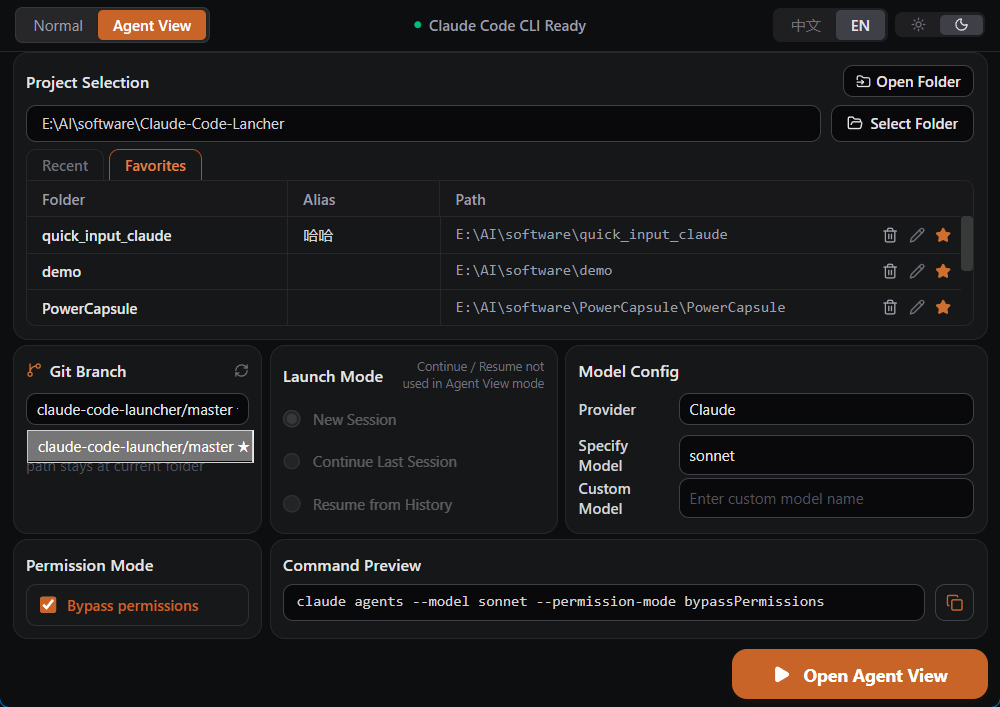
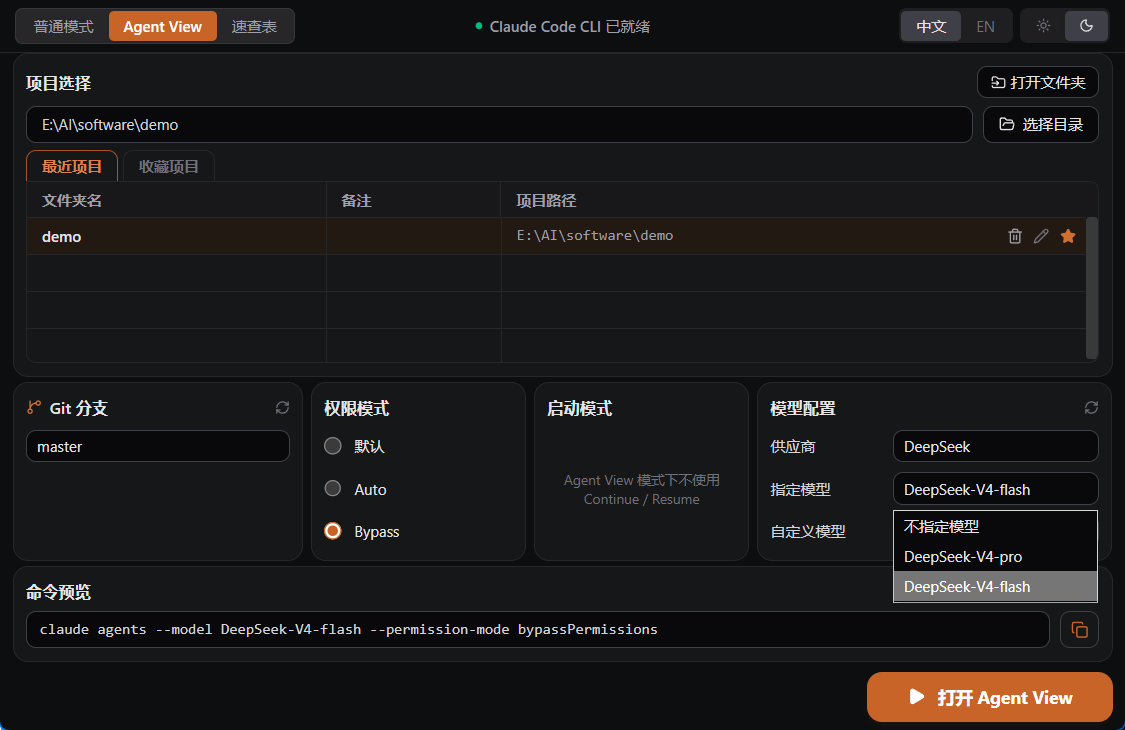
readme 图片更新

diff --git a/README.md b/README.md
@@ -54,6 +54,10 @@ If you're an experienced user, think of it as a project manager for your Claude 
 
 ![Dark mode](docs/screenshot-dark.png)
 
+**🌙 Light Mode · cheatsheet**
+
+![Light mode](docs/screenshot-cheatsheet.png)
+
 ---
 
 ## Features
